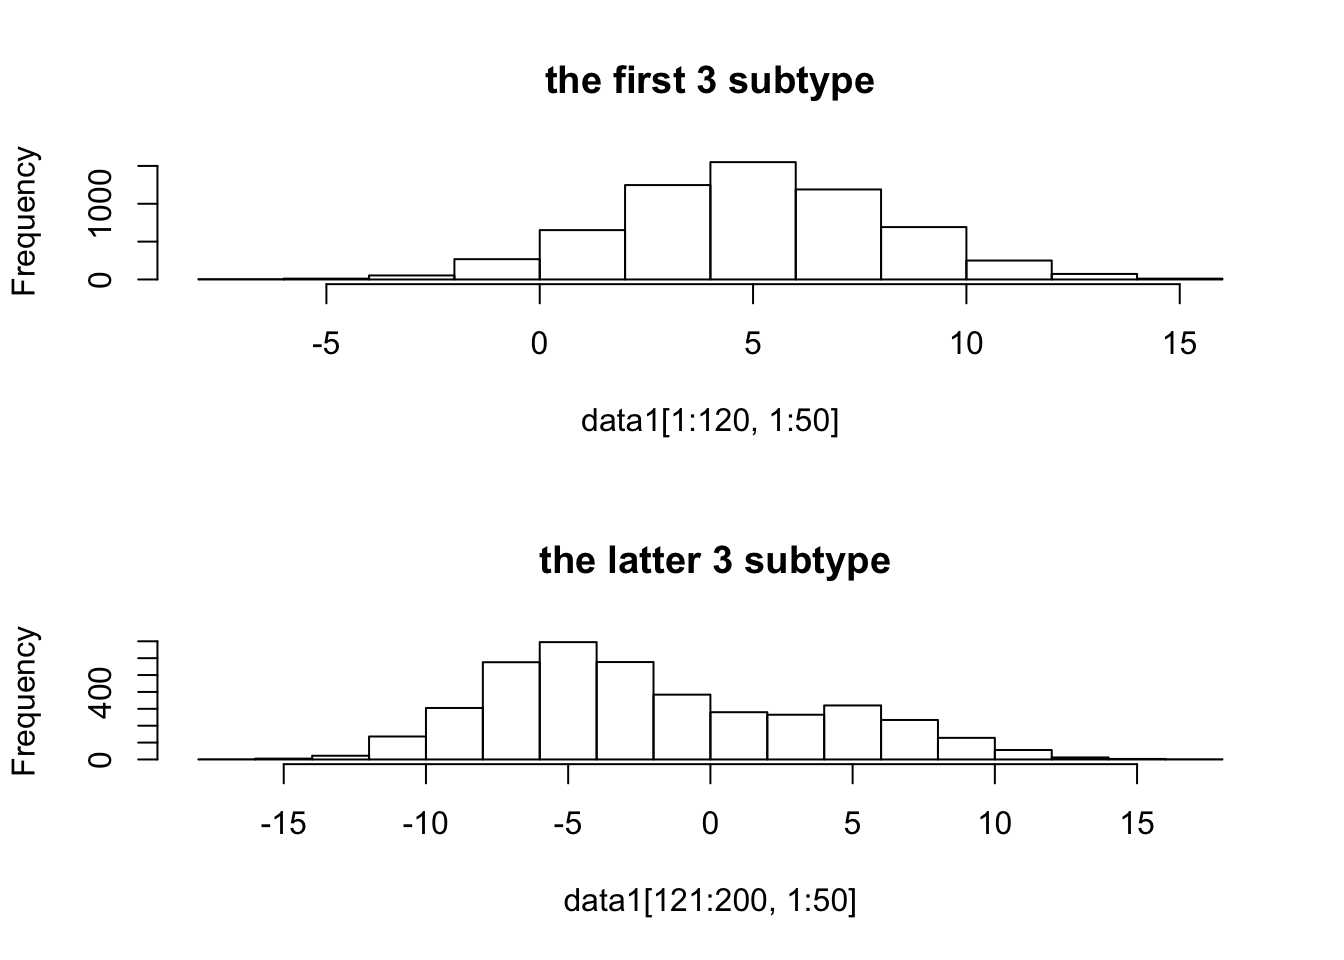
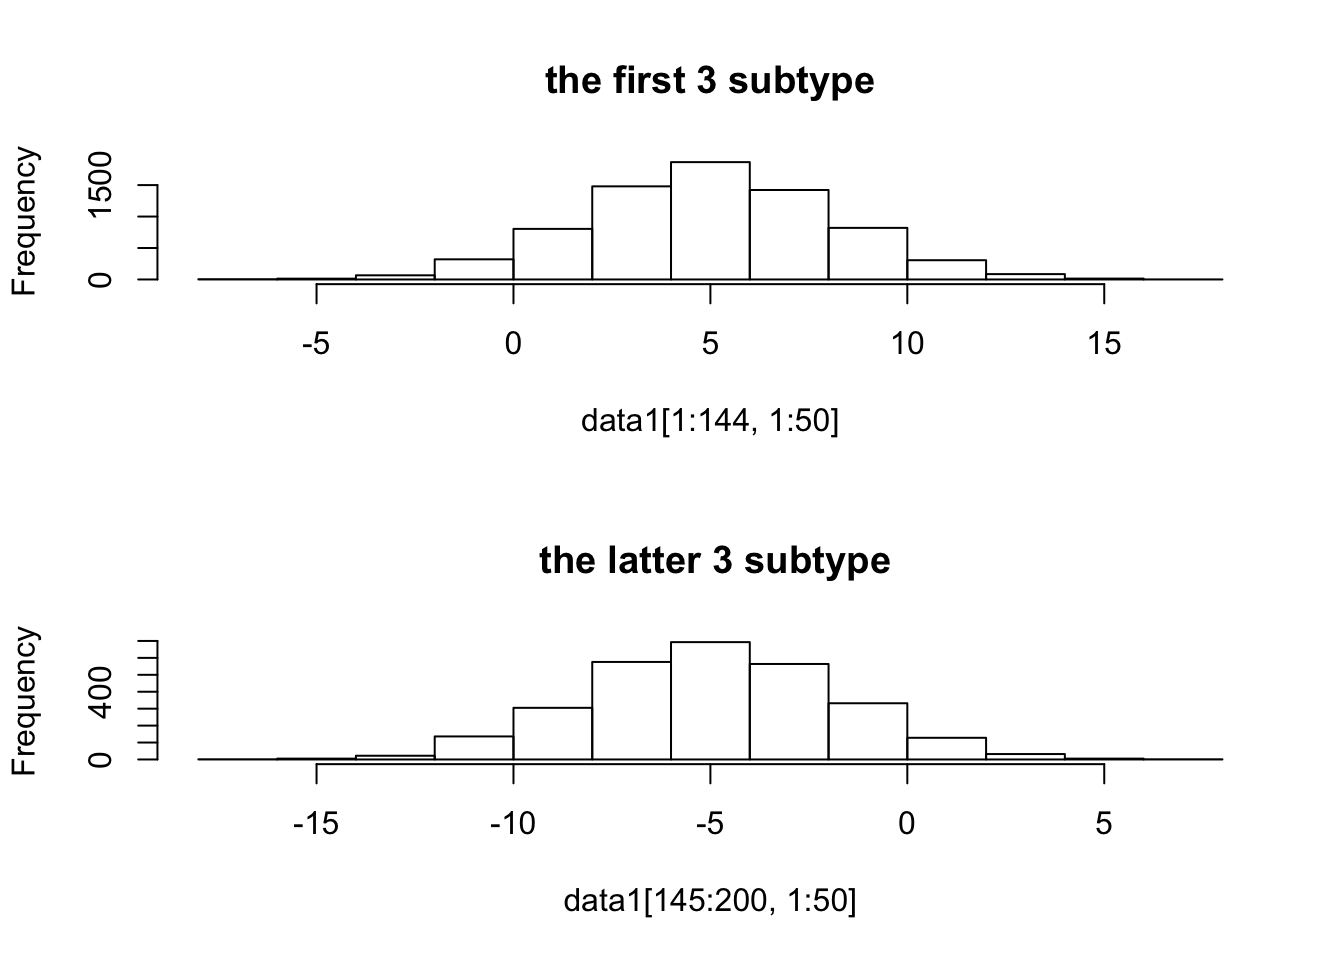
Build site.

diff --git a/docs/trivial_analysis.html b/docs/trivial_analysis.html
@@ -507,16 +507,16 @@ This reproducible <a href="http://rmarkdown.rstudio.com">R Markdown</a> analysis
 <div class="panel panel-default">
 <div class="panel-heading">
 <p class="panel-title">
-<a data-toggle="collapse" data-parent="#workflowr-checks" href="#strongRepositoryversionstrongahrefhttpsgithubcomyuqimiaomultiomicsSIMLRtree1179a63f49728013a527557cb74c091de4429f3etargetblank1179a63a"> <span class="glyphicon glyphicon-ok text-success" aria-hidden="true"></span> <strong>Repository version:</strong> <a href="https://github.com/yuqimiao/multiomics-SIMLR/tree/1179a63f49728013a527557cb74c091de4429f3e" target="_blank">1179a63</a> </a>
+<a data-toggle="collapse" data-parent="#workflowr-checks" href="#strongRepositoryversionstrongahrefhttpsgithubcomyuqimiaomultiomicsSIMLRtree43057b6dd55d50417e41963d275ea77bdfdc832btargetblank43057b6a"> <span class="glyphicon glyphicon-ok text-success" aria-hidden="true"></span> <strong>Repository version:</strong> <a href="https://github.com/yuqimiao/multiomics-SIMLR/tree/43057b6dd55d50417e41963d275ea77bdfdc832b" target="_blank">43057b6</a> </a>
 </p>
 </div>
[2 lines of base64/hex data omitted]
 <div class="panel-body">
 <p>
 Great! You are using Git for version control. Tracking code development and connecting the code version to the results is critical for reproducibility.
 </p>
 <p>
-The results in this page were generated with repository version <a href="https://github.com/yuqimiao/multiomics-SIMLR/tree/1179a63f49728013a527557cb74c091de4429f3e" target="_blank">1179a63</a>. See the <em>Past versions</em> tab to see a history of the changes made to the R Markdown and HTML files.
+The results in this page were generated with repository version <a href="https://github.com/yuqimiao/multiomics-SIMLR/tree/43057b6dd55d50417e41963d275ea77bdfdc832b" target="_blank">43057b6</a>. See the <em>Past versions</em> tab to see a history of the changes made to the R Markdown and HTML files.
 </p>
 <p>
 Note that you need to be careful to ensure that all relevant files for the analysis have been committed to Git prior to generating the results (you can use <code>wflow_publish</code> or <code>wflow_git_commit</code>). workflowr only checks the R Markdown file, but you know if there are other scripts or data files that it depends on. Below is the status of the Git repository when the results were generated:
@@ -537,9 +537,6 @@ Untracked files:
     Untracked:  data/example_data/
     Untracked:  data/simulation_var10_50/
     Untracked:  data/simulation_var5_50/
-
-Unstaged changes:
-    Modified:   analysis/index.Rmd
 
 </code></pre>
 <p>
@@ -583,6 +580,40 @@ Message
 Rmd
 </td>
 <td>
+<a href="https://github.com/yuqimiao/multiomics-SIMLR/blob/43057b6dd55d50417e41963d275ea77bdfdc832b/analysis/trivial_analysis.rmd" target="_blank">43057b6</a>
+</td>
+<td>
+yuqimiao
+</td>
+<td>
+2020-09-09
+</td>
+<td>
+change small index
+</td>
+</tr>
+<tr>
+<td>
+html
+</td>
+<td>
+<a href="https://rawcdn.githack.com/yuqimiao/multiomics-SIMLR/a03de3916debe2eed33606afd828bfe072a267f6/docs/trivial_analysis.html" target="_blank">a03de39</a>
+</td>
+<td>
+yuqimiao
+</td>
+<td>
+2020-09-09
+</td>
+<td>
+Build site.
+</td>
+</tr>
+<tr>
+<td>
+Rmd
+</td>
+<td>
 <a href="https://github.com/yuqimiao/multiomics-SIMLR/blob/1179a63f49728013a527557cb74c091de4429f3e/analysis/trivial_analysis.rmd" target="_blank">1179a63</a>
 </td>
 <td>
@@ -614,12 +645,12 @@ Attaching package: &#39;igraph&#39;</code></pre>
 
     union</code></pre>
 <pre class="r"><code>library(tidyverse)</code></pre>
-<pre><code>── Attaching packages ────────────────────────────────────────────────────────────────────── tidyverse 1.3.0 ──</code></pre>
+<pre><code>── Attaching packages ───────────────────────────────────────────────────────────────────── tidyverse 1.3.0 ──</code></pre>
 <pre><code>✓ ggplot2 3.3.0     ✓ purrr   0.3.3
 ✓ tibble  3.0.0     ✓ dplyr   0.8.5
 ✓ tidyr   1.0.2     ✓ stringr 1.4.0
 ✓ readr   1.3.1     ✓ forcats 0.5.0</code></pre>
-<pre><code>── Conflicts ───────────────────────────────────────────────────────────────────────── tidyverse_conflicts() ──
+<pre><code>── Conflicts ──────────────────────────────────────────────────────────────────────── tidyverse_conflicts() ──
 x dplyr::as_data_frame() masks tibble::as_data_frame(), igraph::as_data_frame()
 x purrr::compose()       masks igraph::compose()
 x tidyr::crossing()      masks igraph::crossing()
@@ -694,9 +725,49 @@ truelabel = NULL
     truelabel = c(truelabel, rep(i,length(index[[i]])))
   }
 par(mfrow = c(2,1))
-hist(data1[1:120,1:50], main = &quot;the first 3 subtype&quot;)
-hist(data1[121:200,1:50], main = &quot; the latter 3 subtype&quot;)</code></pre>
-<p><img src="figure/trivial_analysis.rmd/unnamed-chunk-2-1.png" width="672" style="display: block; margin: auto;" /> 3. For weight construction</p>
+hist(data1[1:144,1:50], main = &quot;the first 3 subtype&quot;)
+hist(data1[145:200,1:50], main = &quot; the latter 3 subtype&quot;)</code></pre>
+<p><img src="figure/trivial_analysis.rmd/unnamed-chunk-2-1.png" width="672" style="display: block; margin: auto;" /></p>
+<p>
+<button type="button" class="btn btn-default btn-xs btn-workflowr btn-workflowr-fig" data-toggle="collapse" data-target="#fig-unnamed-chunk-2-1">
+Past versions of unnamed-chunk-2-1.png
+</button>
+</p>
+<div id="fig-unnamed-chunk-2-1" class="collapse">
+<div class="table-responsive">
+<table class="table table-condensed table-hover">
+<thead>
+<tr>
+<th>
+Version
+</th>
+<th>
+Author
+</th>
+<th>
+Date
+</th>
+</tr>
+</thead>
+<tbody>
+<tr>
+<td>
+<a href="https://github.com/yuqimiao/multiomics-SIMLR/blob/a03de3916debe2eed33606afd828bfe072a267f6/docs/figure/trivial_analysis.rmd/unnamed-chunk-2-1.png" target="_blank">a03de39</a>
+</td>
+<td>
+yuqimiao
+</td>
+<td>
+2020-09-09
+</td>
+</tr>
+</tbody>
+</table>
+</div>
+</div>
+<ol start="3" style="list-style-type: decimal">
+<li>For weight construction</li>
+</ol>
 <p>Using the best performance setting for abSNF( from peifeng’s paper)</p>
 <pre class="r"><code>n1 = 50*0.6#n1 is # of correct weights for informative features
 n2 = 950*0.8#n2 is # of correct weights for non-informative features
@@ -712,6 +783,43 @@ ss=sample(51:1000,n2)
 ge_weight[ss]=runif(n2,uninfo_r1,uninfo_r2)
 plot(1:1000, ge_weight)</code></pre>
 <p><img src="figure/trivial_analysis.rmd/unnamed-chunk-3-1.png" width="672" style="display: block; margin: auto;" /></p>
+<p>
+<button type="button" class="btn btn-default btn-xs btn-workflowr btn-workflowr-fig" data-toggle="collapse" data-target="#fig-unnamed-chunk-3-1">
+Past versions of unnamed-chunk-3-1.png
+</button>
+</p>
+<div id="fig-unnamed-chunk-3-1" class="collapse">
+<div class="table-responsive">
+<table class="table table-condensed table-hover">
+<thead>
+<tr>
+<th>
+Version
+</th>
+<th>
+Author
+</th>
+<th>
+Date
+</th>
+</tr>
+</thead>
+<tbody>
+<tr>
+<td>
+<a href="https://github.com/yuqimiao/multiomics-SIMLR/blob/a03de3916debe2eed33606afd828bfe072a267f6/docs/figure/trivial_analysis.rmd/unnamed-chunk-3-1.png" target="_blank">a03de39</a>
+</td>
+<td>
+yuqimiao
+</td>
+<td>
+2020-09-09
+</td>
+</tr>
+</tbody>
+</table>
+</div>
+</div>
 </div>
 <div id="steps-for-a-single-data" class="section level1">
 <h1>Steps for a single data:</h1>
@@ -753,6 +861,43 @@ par(mfrow = c(2,1))
 displayClusters(af1, truelabel)
 displayClusters(as.matrix(mk1[[1]]), truelabel)</code></pre>
 <p><img src="figure/trivial_analysis.rmd/unnamed-chunk-4-1.png" width="672" style="display: block; margin: auto;" /></p>
+<p>
+<button type="button" class="btn btn-default btn-xs btn-workflowr btn-workflowr-fig" data-toggle="collapse" data-target="#fig-unnamed-chunk-4-1">
+Past versions of unnamed-chunk-4-1.png
+</button>
+</p>
+<div id="fig-unnamed-chunk-4-1" class="collapse">
+<div class="table-responsive">
+<table class="table table-condensed table-hover">
+<thead>
+<tr>
+<th>
+Version
+</th>
+<th>
+Author
+</th>
+<th>
+Date
+</th>
+</tr>
+</thead>
+<tbody>
+<tr>
+<td>
+<a href="https://github.com/yuqimiao/multiomics-SIMLR/blob/a03de3916debe2eed33606afd828bfe072a267f6/docs/figure/trivial_analysis.rmd/unnamed-chunk-4-1.png" target="_blank">a03de39</a>
+</td>
+<td>
+yuqimiao
+</td>
+<td>
+2020-09-09
+</td>
+</tr>
+</tbody>
+</table>
+</div>
+</div>
 <div id="gap-and-simlr-results" class="section level2">
 <h2>gap and SIMLR results</h2>
 <pre class="r"><code>K = 2
